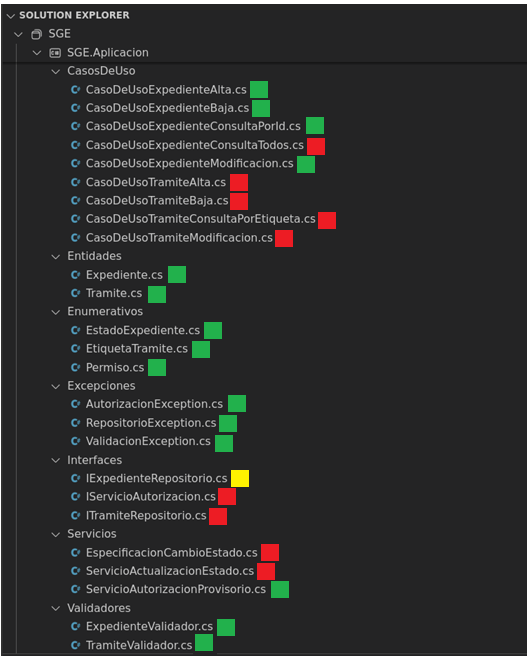
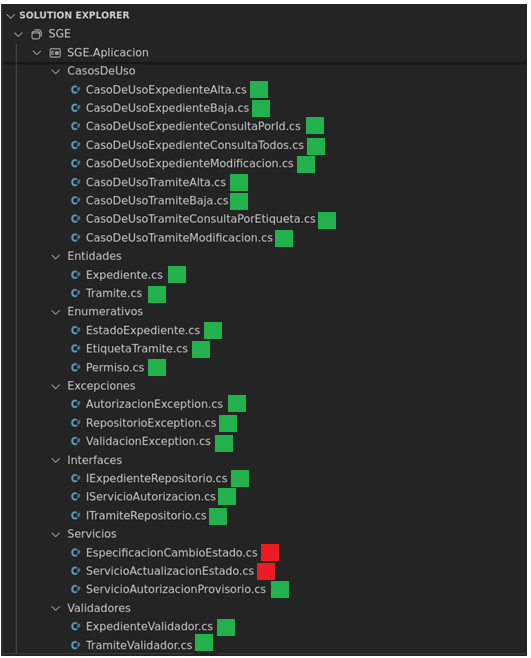
varios

diff --git a/SGE.Repositorios/RepositorioTramite.cs b/SGE.Repositorios/RepositorioTramite.cs
@@ -1,5 +1,6 @@
 namespace SGE.Repositorios;
 
+using System.ComponentModel;
 using System.Linq.Expressions;
 using SGE.Aplicacion;
 
@@ -58,7 +59,7 @@ public class RepositorioTramite : ITramiteRepositorio
         sw.WriteLine(tra.Contenido);
         sw.WriteLine(tra.FechayHoraCr);
         sw.WriteLine(tra.FechayHoraMod);
-        sw.WriteLine(tra.IdUltMod);
+        sw.WriteLine(tra.IdUser);
       }
     }
   }
@@ -77,25 +78,25 @@ public class RepositorioTramite : ITramiteRepositorio
         sw.WriteLine(nuevoTramite.Etiqueta);
         sw.WriteLine(nuevoTramite.Contenido);
         sw.WriteLine(t.FechayHoraCr);
-        sw.WriteLine(DateTime.Now);
+        sw.WriteLine(t.FechayHoraMod);
         sw.WriteLine(idUser);
         sw.Close();
       }
       else
       {
-        AltaTramite(t);
+        AltaTramite(t, idUser);
       }
     }
   }
 
-  public Tramite ConsultaPorEtiqueta(EtiquetaTramite etiqueta)
+  public List<Tramite> ConsultaPorEtiqueta(EtiquetaTramite etiqueta)
   {
-    Tramite resultado = new();
+    List<Tramite> resultado = [];
     List<Tramite> lista = ListarTramites();
     foreach (Tramite t in lista)
     {
       if (t.Etiqueta == etiqueta)
-        resultado = t;
+        resultado.Add(t);
     }
     return resultado;
   }

diff --git a/SGE.Repositorios/obj/Debug/net8.0/SGE.Repositorios.AssemblyInfo.cs b/SGE.Repositorios/obj/Debug/net8.0/SGE.Repositorios.AssemblyInfo.cs
@@ -13,14 +13,10 @@ using System.Reflection;
 [assembly: System.Reflection.AssemblyCompanyAttribute("SGE.Repositorios")]
 [assembly: System.Reflection.AssemblyConfigurationAttribute("Debug")]
 [assembly: System.Reflection.AssemblyFileVersionAttribute("1.0.0.0")]
-<<<<<<< HEAD
-[assembly: System.Reflection.AssemblyInformationalVersionAttribute("1.0.0+15f2fb2f0f75705a903dbb5b97d85e0389e39f18")]
-=======
-[assembly: System.Reflection.AssemblyInformationalVersionAttribute("1.0.0+ef3482e3d512abdf05280d12e11158f1706f843f")]
->>>>>>> 2790dc29b7520c56a71300fa5725c6b1761d41f3
+[assembly: System.Reflection.AssemblyInformationalVersionAttribute("1.0.0+4cfa08268f293d2c6ab79b8d189a9f82f0b9a82e")]
 [assembly: System.Reflection.AssemblyProductAttribute("SGE.Repositorios")]
 [assembly: System.Reflection.AssemblyTitleAttribute("SGE.Repositorios")]
 [assembly: System.Reflection.AssemblyVersionAttribute("1.0.0.0")]
 
-// Generado por la clase WriteCodeFragment de MSBuild.
+// Generated by the MSBuild WriteCodeFragment class.
 

diff --git a/SGE.Consola/obj/Debug/net8.0/SGE.Consola.AssemblyInfo.cs b/SGE.Consola/obj/Debug/net8.0/SGE.Consola.AssemblyInfo.cs
@@ -13,11 +13,7 @@ using System.Reflection;
 [assembly: System.Reflection.AssemblyCompanyAttribute("SGE.Consola")]
 [assembly: System.Reflection.AssemblyConfigurationAttribute("Debug")]
 [assembly: System.Reflection.AssemblyFileVersionAttribute("1.0.0.0")]
-<<<<<<< HEAD
-[assembly: System.Reflection.AssemblyInformationalVersionAttribute("1.0.0+15f2fb2f0f75705a903dbb5b97d85e0389e39f18")]
-=======
-[assembly: System.Reflection.AssemblyInformationalVersionAttribute("1.0.0+ef3482e3d512abdf05280d12e11158f1706f843f")]
->>>>>>> 2790dc29b7520c56a71300fa5725c6b1761d41f3
+[assembly: System.Reflection.AssemblyInformationalVersionAttribute("1.0.0+4cfa08268f293d2c6ab79b8d189a9f82f0b9a82e")]
 [assembly: System.Reflection.AssemblyProductAttribute("SGE.Consola")]
 [assembly: System.Reflection.AssemblyTitleAttribute("SGE.Consola")]
 [assembly: System.Reflection.AssemblyVersionAttribute("1.0.0.0")]

diff --git a/SGE.Aplicacion/obj/Debug/net8.0/SGE.Aplicacion.AssemblyInfo.cs b/SGE.Aplicacion/obj/Debug/net8.0/SGE.Aplicacion.AssemblyInfo.cs
@@ -13,10 +13,10 @@ using System.Reflection;
 [assembly: System.Reflection.AssemblyCompanyAttribute("SGE.Aplicacion")]
 [assembly: System.Reflection.AssemblyConfigurationAttribute("Debug")]
 [assembly: System.Reflection.AssemblyFileVersionAttribute("1.0.0.0")]
-[assembly: System.Reflection.AssemblyInformationalVersionAttribute("1.0.0+7584582a622083e109ced4fb0da4c6591a1dfecc")]
+[assembly: System.Reflection.AssemblyInformationalVersionAttribute("1.0.0+4cfa08268f293d2c6ab79b8d189a9f82f0b9a82e")]
 [assembly: System.Reflection.AssemblyProductAttribute("SGE.Aplicacion")]
 [assembly: System.Reflection.AssemblyTitleAttribute("SGE.Aplicacion")]
 [assembly: System.Reflection.AssemblyVersionAttribute("1.0.0.0")]
 
-// Generado por la clase WriteCodeFragment de MSBuild.
+// Generated by the MSBuild WriteCodeFragment class.
 

diff --git a/SGE.Aplicacion/CasosDeUso/CasoDeUsoExpedienteAlta.cs b/SGE.Aplicacion/CasosDeUso/CasoDeUsoExpedienteAlta.cs
@@ -7,9 +7,18 @@ public class CasoDeUsoExpedienteAlta(IExpedienteRepositorio repo)
         ServicioAutorizacionProvisiorio val = new();
         if (val.PoseeElPermiso(idUser, Permiso.ExpedienteAlta))
         {
-            e.FechayHoraCr = DateTime.Now;
-            e.FechayHoraMod = DateTime.Now;
-            repo.AltaExpediente(e, idUser);
+            string mensajeError;
+            ExpedienteValidador valid = new();
+            if (valid.esValido(e, out mensajeError))
+            {
+                e.FechayHoraCr = DateTime.Now;
+                e.FechayHoraMod = DateTime.Now;
+                repo.AltaExpediente(e, idUser);
+            }
+            else
+            {
+                throw new ValidacionException(mensajeError);
+            }
         }
         else 
         {

diff --git a/SGE.Aplicacion/CasosDeUso/CasoDeUsoExpedienteModificacion.cs b/SGE.Aplicacion/CasosDeUso/CasoDeUsoExpedienteModificacion.cs
@@ -7,7 +7,17 @@ public class CasoDeUsoExpedienteModificacion(IExpedienteRepositorio repo)
         ServicioAutorizacionProvisiorio val = new();
         if (val.PoseeElPermiso(idUser, Permiso.ExpedienteModificacion))
         {
-            repo.ModificarExpediente(e, idUser);
+            string mensajeError;
+            ExpedienteValidador valid = new();
+            if (valid.esValido(e, out mensajeError))
+            {
+                e.FechayHoraMod = DateTime.Now;
+                repo.ModificarExpediente(e, idUser);
+            }
+            else
+            {
+                throw new ValidacionException(mensajeError);
+            }
         }
         else
         {

diff --git a/SGE.Aplicacion/CasosDeUso/CasoDeUsoTramiteAlta.cs b/SGE.Aplicacion/CasosDeUso/CasoDeUsoTramiteAlta.cs
@@ -7,9 +7,18 @@ public class CasoDeUsoTramiteAlta(ITramiteRepositorio repo)
     ServicioAutorizacionProvisiorio val = new();
     if (val.PoseeElPermiso(idUser, Permiso.TramiteAlta))
     {
-      t.FechayHoraCr = DateTime.Now;
-      t.FechayHoraMod = DateTime.Now;
-      repo.AltaTramite(t, idUser);
+      string mensajeError;
+      TramiteValidador valid = new();
+      if (valid.esValido(t, out mensajeError))
+      {
+        t.FechayHoraCr = DateTime.Now;
+        t.FechayHoraMod = DateTime.Now;
+        repo.AltaTramite(t, idUser);
+      }
+      else
+      {
+        throw new ValidacionException(mensajeError);
+      }
     }
     else
     {

diff --git a/SGE.Aplicacion/Servicios/EspecificacionCambioEstado.cs b/SGE.Aplicacion/Servicios/EspecificacionCambioEstado.cs
@@ -1,6 +1,20 @@
 namespace SGE.Aplicacion;
 
-public class EspecificacionCambioEstado
+public static class EspecificacionCambioEstado
 {
+    public static EstadoExpediente? GetNuevoEstado(EtiquetaTramite tr)
+    {
+        switch (tr) 
+        {
+            case EtiquetaTramite.Resolucion: 
+                return EstadoExpediente.ConResolucion;
+            case EtiquetaTramite.PaseAEstudio:
+                return EstadoExpediente.ParaResolver;
+            case EtiquetaTramite.PaseAlArchivo:
+                return EstadoExpediente.Finalizado;
+            default:
+                return null;
+        }
+    }
     
 }

diff --git a/SGE.Aplicacion/CasosDeUso/CasoDeUsoTramiteModificacion.cs b/SGE.Aplicacion/CasosDeUso/CasoDeUsoTramiteModificacion.cs
@@ -7,7 +7,17 @@ public class CasoDeUsoTramiteModificacion(ITramiteRepositorio repo)
     ServicioAutorizacionProvisiorio val = new();
     if (val.PoseeElPermiso(IdUser, Permiso.TramiteModificacion))
     {
-      repo.ModificacionTramite(t, IdUser);
+      string mensajeError;
+      TramiteValidador valid = new();
+      if (valid.esValido(t, out mensajeError))
+      {
+        t.FechayHoraMod = DateTime.Now;
+        repo.ModificacionTramite(t, IdUser);
+      }
+      else
+      {
+        throw new ValidacionException(mensajeError);
+      }
     }
     else
     {

diff --git a/SGE.Repositorios/RepositorioExpediente.cs b/SGE.Repositorios/RepositorioExpediente.cs
@@ -99,7 +99,6 @@ public class RepositorioExpediente : IExpedienteRepositorio
             if (exp.Id == nuevoExp.Id)
             {
                 exp.Caratula = nuevoExp.Caratula;
-                exp.FechayHoraMod = DateTime.Now;
                 exp.Estado = nuevoExp.Estado;
                 exp.IdUser = idUser;
                 CopiarExpediente(exp, sw);

diff --git a/SGE.Aplicacion/Interfaces/ITramiteRepositorio.cs b/SGE.Aplicacion/Interfaces/ITramiteRepositorio.cs
@@ -5,5 +5,5 @@ public interface ITramiteRepositorio
   public void AltaTramite(Tramite t, int idUser);
   public void BajaTramite(int IdTram);
   public void ModificacionTramite(Tramite t, int idUser);
-  public Tramite ConsultaPorEtiqueta(EtiquetaTramite etiqueta);
+  public List<Tramite> ConsultaPorEtiqueta(EtiquetaTramite etiqueta);
 }

diff --git a/SGE.Aplicacion/Servicios/ServicioActualizacionEstado.cs b/SGE.Aplicacion/Servicios/ServicioActualizacionEstado.cs
@@ -2,5 +2,5 @@
 
 public class ServicioActualizacionEstado
 {
-
+    
 }
